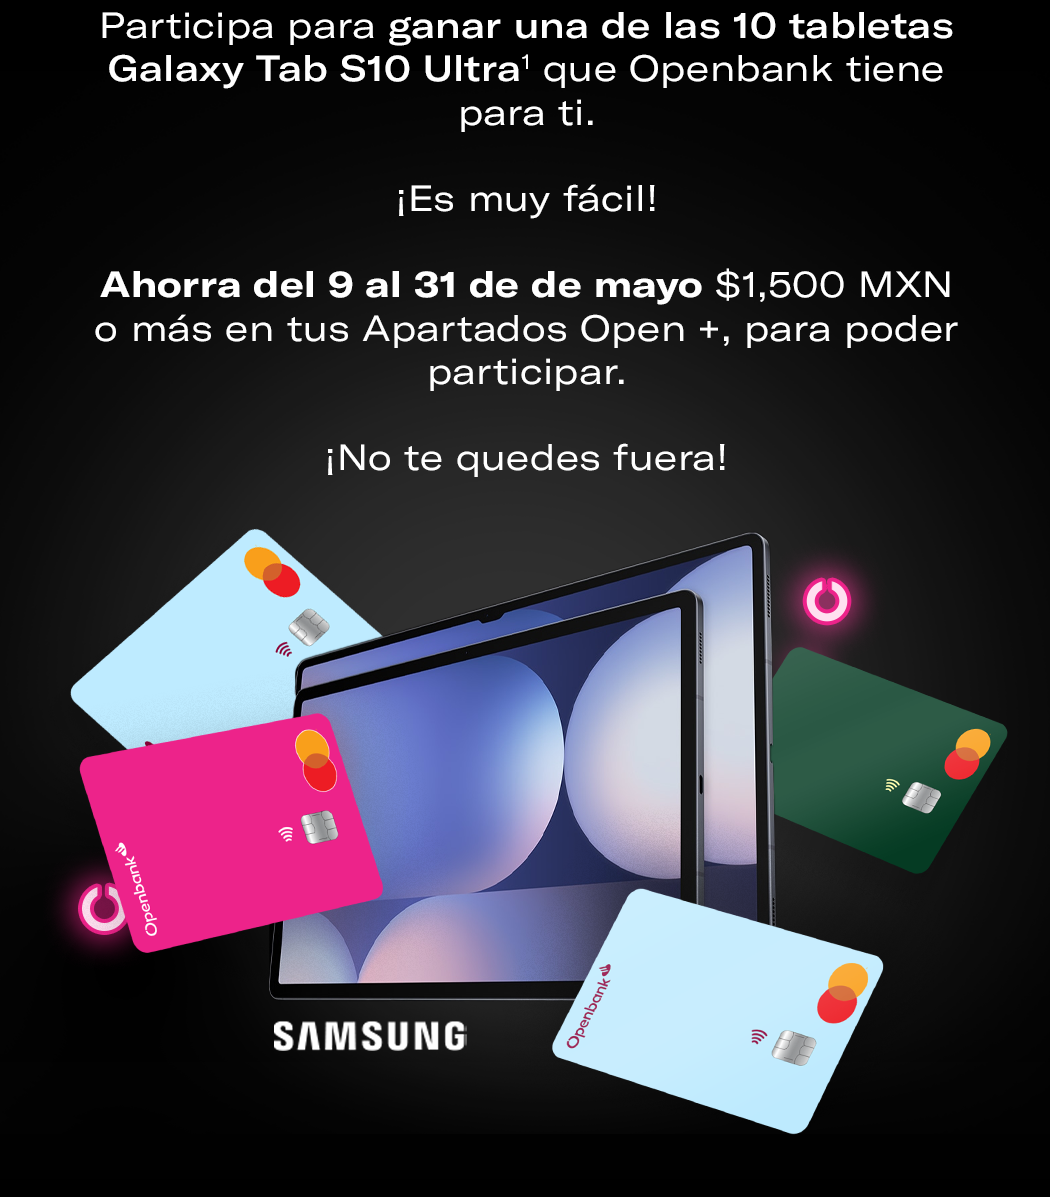
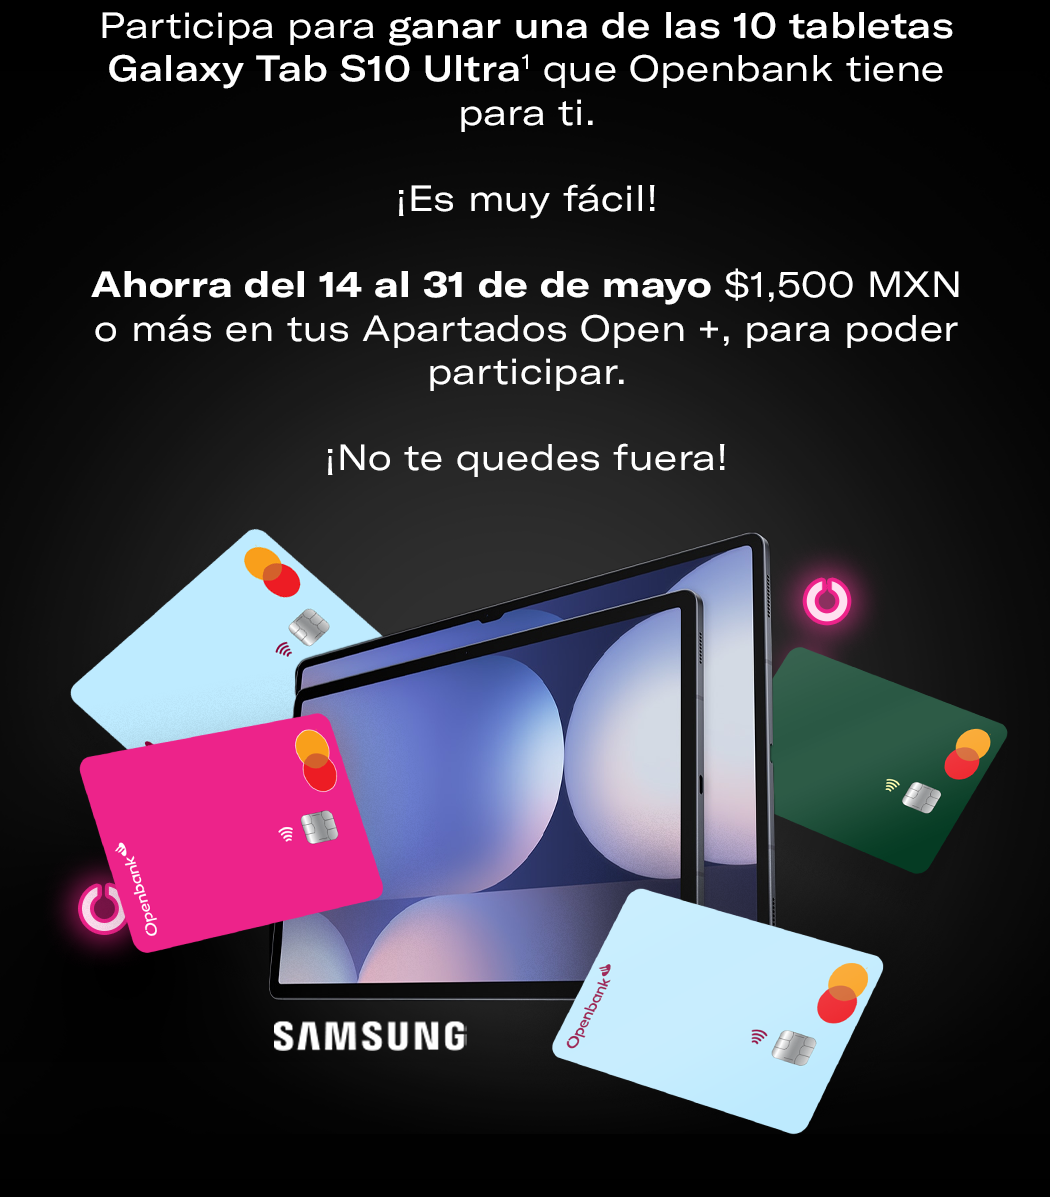
x

Changed region(s): [[0.0914, 0.2164, 0.9143, 0.2782]]

diff --git a/2025/05/03-SPENDSTIMULATION(S25)-TDCyTDD/SPENDSTIMULATION(S25)-TDCyTDD.html b/2025/05/03-SPENDSTIMULATION(S25)-TDCyTDD/SPENDSTIMULATION(S25)-TDCyTDD.html
@@ -502,9 +502,17 @@
                     <img src="https://openbank-newsletter-q2k5.vercel.app/2025/05/03-SPENDSTIMULATION(S25)-TDCyTDD/img/Header.png" width="100%" alt="" style="display:block;margin-top:-20px; margin-bottom:0;">
                 </td>
             </tr>
-		        <tr>
-              <td class="white-bg" style="background-image:url('https://openbank-newsletter-q2k5.vercel.app/2025/05/03-SPENDSTIMULATION(S25)-TDCyTDD/img/bg-white.png')!important; background-repeat:repeat; padding:50px;background-color: #ffffff!important; background-image: linear-gradient(#ffffff, #ffffff)!important; font-weight: bold; font-size: 30px;line-height: 100px; font-family: 'GT-America-Extended', sans-serif; text-align: center;padding: 0 20px;">
-                  <h1 style="color:#424242;margin:0 0 10px;font-weight: normal;font-size: 35px;">HOLA, <strong>${NAME}</strong></h1>
+            <tr style="margin:0;background-color: #fff; background-image: linear-gradient(#fff, #fff); background-image:url('https://openbank-newsletter-q2k5.vercel.app/2025/05/06-Mail-TDC-StandAlone-a-N4/img/bg-white.png'); background-repeat: repeat;">
+              <td>
+                <table border="0" cellpadding="0" cellspacing="0" width="100%"
+                  style="background-color: #fff; background-image: linear-gradient(#fff, #fff); background-image:url('https://openbank-newsletter-q2k5.vercel.app/2025/05/06-Mail-TDC-StandAlone-a-N4/img/bg-white.png'); background-repeat: repeat; margin:0 0 -5px 0;padding:0;border-collapse:collapse !important;border-spacing:0 !important;table-layout:fixed !important;">
+                  <tr>
+                    <td
+                      style="font-family: 'GT-America-Extended', sans-serif; font-size: 30px; line-height: 1.3; color: #6b6b6b; text-align: center; -webkit-text-size-adjust: none; padding: 20px 0px; width: 70%">
+                      <p style="margin:0;font-weight: bold;">HOLA, ${NAME}</p>
+                    </td>
+                  </tr>
+                </table>
               </td>
             </tr>
             <tr>

diff --git a/2025/05/04-Saving-stimulation-Premio-TG-N2/Saving stimulation. Premio TG-N2.html b/2025/05/04-Saving-stimulation-Premio-TG-N2/Saving stimulation. Premio TG-N2.html
@@ -507,7 +507,7 @@
         style="-webkit-text-size-adjust:100%;-ms-text-size-adjust:100%;mso-table-lspace:0pt;mso-table-rspace:0pt;mso-default-height:100%;mso-default-width:100%;mso-space-above:no;mso-space-below:no;margin:0;padding:0;width:100%;max-width:600px;border-collapse:collapse !important;border-spacing:0 !important;table-layout:fixed !important;padding:0 !important;table-layout:auto !important;margin: 0; padding: 0; max-width: 600px; background-image: url('https://openbank-newsletter-q2k5.vercel.app/img/rrss/footer-bg.png'); background-image: linear-gradient(#000000, #000000); background-color: #000000; background-repeat: repeat;">
         <tr>
           <td>
-            <img src="https://openbank-newsletter-q2k5.vercel.app/2025/05/04-Saving-stimulation-Premio-TG-N2/img/we_are_open.png" width="100%" alt="" style="display:block;margin-bottom:5px;">
+            <img src="https://openbank-newsletter-q2k5.vercel.app/Recordatorio/3MSI/img/we_are_open.png" width="100%" alt="" style="display:block;margin-bottom:5px;">
           </td>
         </tr>
         <tr>
